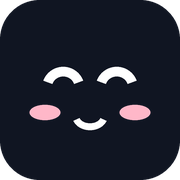
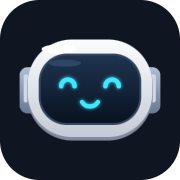
小圖示改成小柯頭盔機器人；修正面板「返回」會跳到瀏覽器
- docs/icon.svg 重畫為頭盔機器人（比例同 App 內 drawRobot），並輸出
  icon-180/192/512、maskable-512（機器人縮在安全區）；sw.js 快取版號 v2
- Android 加上 mipmap-mdpi～xxxhdpi 的 ic_launcher 並在 manifest 設定 icon
  （原本沒設，顯示系統預設圖示）
- PanelActivity：面板在首頁按「返回」會導向網站根目錄，原本被當成外部
  連結丟給瀏覽器；改成直接關閉面板回到小柯（已在手機實測）

diff --git a/docs/sw.js b/docs/sw.js
@@ -1,5 +1,5 @@
 // 只快取 App 本身的檔案；呼叫 OpenAI 的請求一律走網路
-const CACHE = 'xiaoke-v1';
+const CACHE = 'xiaoke-v2';   // 改版（例如換圖示）時 +1，舊快取會清掉
 const FILES = ['./', 'index.html', 'app.js', 'manifest.webmanifest', 'icon.svg', 'icon-180.png', 'icon-192.png', 'icon-512.png'];
 
 self.addEventListener('install', (e) => {

diff --git a/android/src/com/achir/xiaoke/PanelActivity.java b/android/src/com/achir/xiaoke/PanelActivity.java
@@ -38,10 +38,12 @@ public class PanelActivity extends Activity {
         web.loadUrl(Config.PANEL_URL);
     }
 
-    /** 面板本身留在 App 內；工作站工具等其他網址交給系統瀏覽器開。 */
+    /** 面板本身留在 App 內；面板想回網站首頁（按「返回」）就關掉面板回小柯；其他網址交給系統瀏覽器開。 */
     private boolean openOutside(Uri uri) {
         String u = uri.toString();
         if (u.startsWith(Config.PANEL_URL)) return false;
+        String site = Config.PANEL_URL.substring(0, Config.PANEL_URL.lastIndexOf('/') + 1);
+        if (u.startsWith(site)) { finish(); return true; }
         try { startActivity(new Intent(Intent.ACTION_VIEW, uri)); } catch (Exception ignored) {}
         return true;
     }
